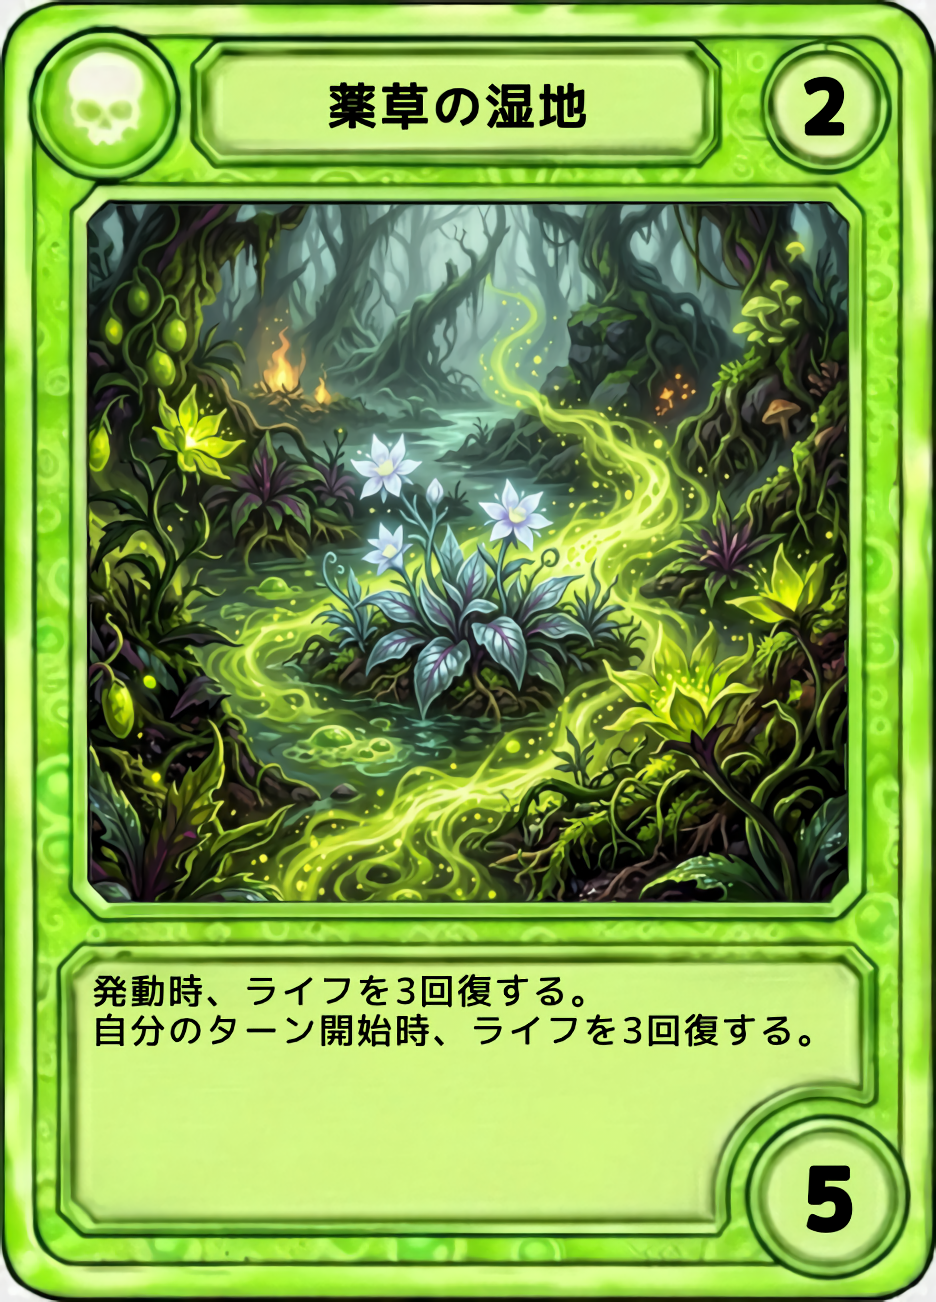
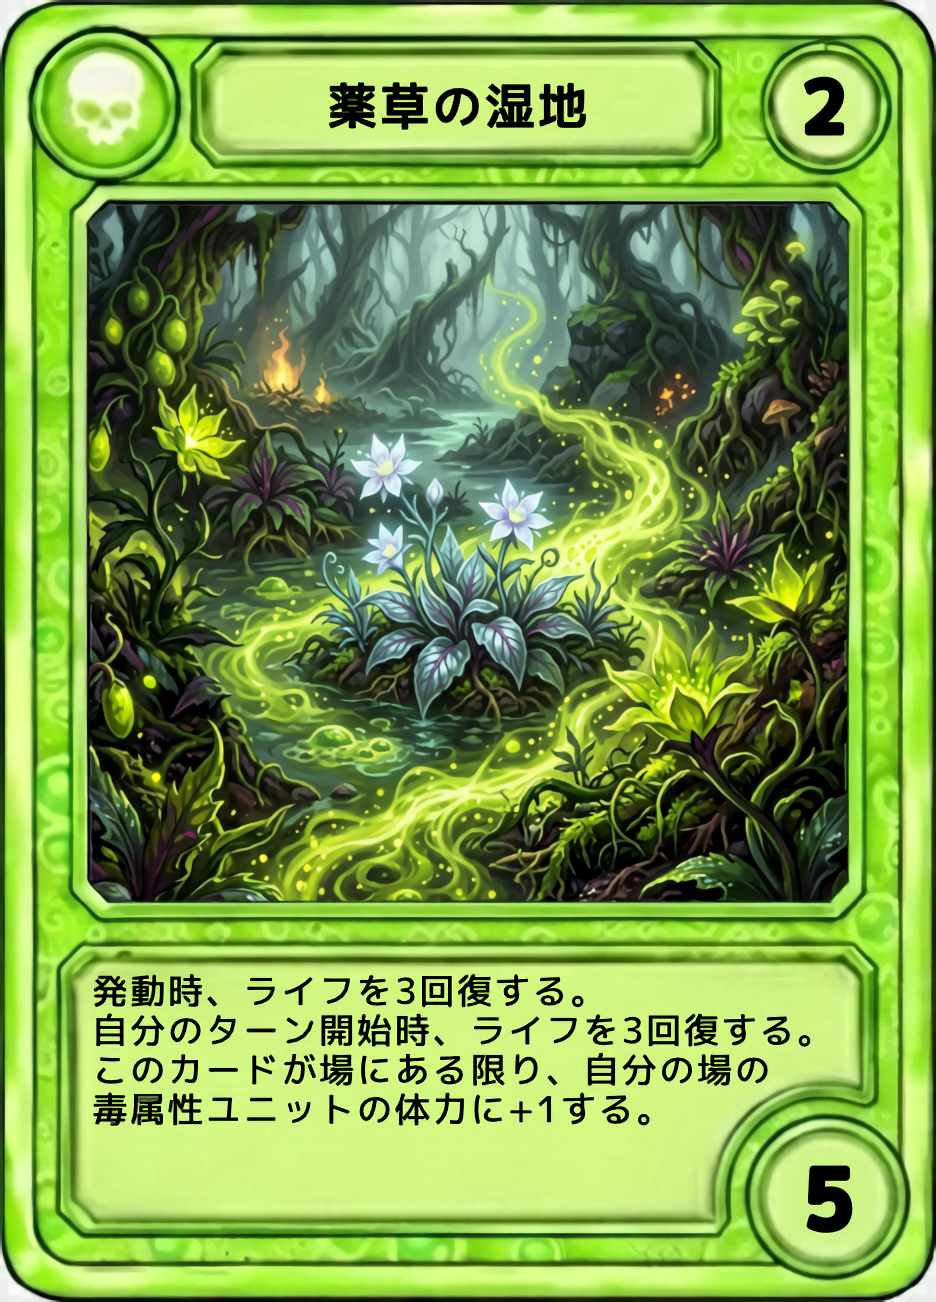
yakusou

Changed region(s): [[0.0929, 0.7988, 0.8365, 0.8909]]

diff --git a/server.js b/server.js
@@ -478,6 +478,11 @@ function applyFieldSpellOnSummon(unit, ownerPlayer){
   if(game.fieldSpell[ownerPlayer]&&cards[game.fieldSpell[ownerPlayer].name]?.effect==="PERM_SPELL_FOREST_BUFF"){
     unit.atk+=1; unit.hp+=1;
   }
+// 薬草の湿地：自分フィールドスペルがある場合HP+1
+  if(game.fieldSpell[ownerPlayer]&&cards[game.fieldSpell[ownerPlayer].name]?.effect==="PERM_SPELL_HERB_HEAL"){
+    unit.hp+=1;
+  }
+
   // 深海の神殿：自分フィールドスペルがある場合ATK+1
   if(game.fieldSpell[ownerPlayer]&&cards[game.fieldSpell[ownerPlayer].name]?.effect==="PERM_SPELL_WATER_ENERGY"){
     unit.atk+=1;
@@ -1164,10 +1169,12 @@ function processSpellEffect(cardName, p, socket){
         game.board[p].forEach(u=>{u.atk+=1;});
         addLog(p,`「${cardName}」：場の全ユニットATK+1`);
       }
-      // 薬草の湿地：発動時ライフ+3
+      // 薬草の湿地：発動時ライフ+3、場の全ユニットHP+1
       if(eff==="PERM_SPELL_HERB_HEAL"){
         game.life[p]+=3;
         addLog(p,`「${cardName}」：ライフ+3`);
+        game.board[p].forEach(u=>{u.hp+=1;});
+        addLog(p,`「${cardName}」：場の全ユニットHP+1`);
       }
       // 世界樹の聖域：即座に場のユニット全体ATK/HP+1
       if(eff==="PERM_SPELL_FOREST_BUFF"){
@@ -1333,10 +1340,21 @@ function destroyFieldSpell(ownerPlayer){
   const fs=game.fieldSpell[ownerPlayer];
   if(!fs) return;
   const eff=cards[fs.name]?.effect||"";
-  // 世界樹の聖域：場のユニットATK/HP-1
+  // 世界樹の聖域：場のユニットATK/HP-1（HP0以下で破壊）
   if(eff==="PERM_SPELL_FOREST_BUFF"){
-    game.board[ownerPlayer].forEach(u=>{u.atk=Math.max(0,u.atk-1);u.hp=Math.max(1,u.hp-1);});
+    game.board[ownerPlayer].forEach(u=>{u.atk=Math.max(0,u.atk-1);u.hp-=1;});
     addLog(ownerPlayer,`「${fs.name}」破壊：場の全ユニットATK/HP-1`);
+    const _dead=[];
+    game.board[ownerPlayer].forEach((u,i)=>{if(u.hp<=0)_dead.push(i);});
+    _dead.reverse().forEach(i=>{const d=game.board[ownerPlayer].splice(i,1)[0];if(!d.isToken)game.graves[ownerPlayer].push(d);triggerDestroyEffect(d,ownerPlayer);});
+  }
+// 薬草の湿地：場のユニットHP-1（HP0以下で破壊）
+  if(eff==="PERM_SPELL_HERB_HEAL"){
+    game.board[ownerPlayer].forEach(u=>{u.hp-=1;});
+    addLog(ownerPlayer,`「${fs.name}」破壊：場の全ユニットHP-1`);
+    const _dead=[];
+    game.board[ownerPlayer].forEach((u,i)=>{if(u.hp<=0)_dead.push(i);});
+    _dead.reverse().forEach(i=>{const d=game.board[ownerPlayer].splice(i,1)[0];if(!d.isToken)game.graves[ownerPlayer].push(d);triggerDestroyEffect(d,ownerPlayer);});
   }
   // 深海の神殿：場の全ユニットATK-1（元に戻す）
   if(eff==="PERM_SPELL_WATER_ENERGY"){
@@ -2881,6 +2899,7 @@ function roomSummonToken(room, p, tokenName, n){
 function roomApplyFieldSpellOnSummon(room, unit, ownerPlayer){
   const op=roomGetOpponent(room,ownerPlayer);
   if(room.fieldSpell[ownerPlayer]&&cards[room.fieldSpell[ownerPlayer].name]?.effect==="PERM_SPELL_FOREST_BUFF"){unit.atk+=1;unit.hp+=1;}
+if(room.fieldSpell[ownerPlayer]&&cards[room.fieldSpell[ownerPlayer].name]?.effect==="PERM_SPELL_HERB_HEAL"){unit.hp+=1;}
   if(room.fieldSpell[ownerPlayer]&&cards[room.fieldSpell[ownerPlayer].name]?.effect==="PERM_SPELL_WATER_ENERGY"){unit.atk+=1;}
   if(room.fieldSpell[ownerPlayer]&&cards[room.fieldSpell[ownerPlayer].name]?.effect==="PERM_SPELL_IRON_FACTORY"){
     if(unit.name==="ギアスカウト"||unit.name==="プロトタイプユニット") unit.atk+=1;
@@ -2892,7 +2911,8 @@ function roomDestroyFieldSpell(room, ownerPlayer){
   const fs=room.fieldSpell[ownerPlayer];
   if(!fs) return;
   const eff=cards[fs.name]?.effect||"";
-  if(eff==="PERM_SPELL_FOREST_BUFF"){room.board[ownerPlayer].forEach(u=>{u.atk=Math.max(0,u.atk-1);u.hp=Math.max(1,u.hp-1);});roomAddLog(room,ownerPlayer,`「${fs.name}」破壊：場の全ユニットATK/HP-1`);}
+  if(eff==="PERM_SPELL_FOREST_BUFF"){room.board[ownerPlayer].forEach(u=>{u.atk=Math.max(0,u.atk-1);u.hp-=1;});roomAddLog(room,ownerPlayer,`「${fs.name}」破壊：場の全ユニットATK/HP-1`);const _d=[];room.board[ownerPlayer].forEach((u,i)=>{if(u.hp<=0)_d.push(i);});_d.reverse().forEach(i=>{const dd=room.board[ownerPlayer].splice(i,1)[0];if(!dd.isToken)room.graves[ownerPlayer].push(dd);roomTriggerDestroyEffect(room,dd,ownerPlayer);});}
+  if(eff==="PERM_SPELL_HERB_HEAL"){room.board[ownerPlayer].forEach(u=>{u.hp-=1;});roomAddLog(room,ownerPlayer,`「${fs.name}」破壊：場の全ユニットHP-1`);const _d=[];room.board[ownerPlayer].forEach((u,i)=>{if(u.hp<=0)_d.push(i);});_d.reverse().forEach(i=>{const dd=room.board[ownerPlayer].splice(i,1)[0];if(!dd.isToken)room.graves[ownerPlayer].push(dd);roomTriggerDestroyEffect(room,dd,ownerPlayer);});}
   if(eff==="PERM_SPELL_WATER_ENERGY"){room.board[ownerPlayer].forEach(u=>{u.atk=Math.max(0,u.atk-1);});roomAddLog(room,ownerPlayer,`「${fs.name}」破壊：場の全ユニットATK-1`);}
   if(eff==="PERM_SPELL_IRON_FACTORY"){room.board[ownerPlayer].forEach(u=>{if(u.name==="ギアトークン"||u.name==="ギアスカウト"||u.name==="プロトタイプユニット"){u.atk=Math.max(0,u.atk-1);}});roomAddLog(room,ownerPlayer,`「${fs.name}」破壊：場のギアトークン等ATK-1`);}
   if(eff==="PERM_SPELL_DARK_DEBUFF"){const op=roomGetOpponent(room,ownerPlayer);room.board[op].forEach(u=>{u.atk+=1;});roomAddLog(room,ownerPlayer,`「${fs.name}」破壊：相手場ATK+1`);}
@@ -3063,7 +3083,7 @@ function roomProcessSpellEffect(room, cardName, p, socket){
       room.fieldSpell[p]={name:cardName,durability:dur};
       roomAddLog(room,p,`「${cardName}」をフィールドに設置（耐久${dur}）`);
       if(eff==="PERM_SPELL_WATER_ENERGY"){room.maxEnergy[p]=Math.min(10,room.maxEnergy[p]+1);room.energy[p]=Math.min(room.maxEnergy[p],room.energy[p]+1);roomAddLog(room,p,`「${cardName}」：エネルギー+1`);room.board[p].forEach(u=>{u.atk+=1;});roomAddLog(room,p,`「${cardName}」：場の全ユニットATK+1`);}
-      if(eff==="PERM_SPELL_HERB_HEAL"){room.life[p]+=3;roomAddLog(room,p,`「${cardName}」：ライフ+3`);}
+      if(eff==="PERM_SPELL_HERB_HEAL"){room.life[p]+=3;roomAddLog(room,p,`「${cardName}」：ライフ+3`);room.board[p].forEach(u=>{u.hp+=1;});roomAddLog(room,p,`「${cardName}」：場の全ユニットHP+1`);}
       if(eff==="PERM_SPELL_FOREST_BUFF"){room.board[p].forEach(u=>{u.atk+=1;u.hp+=1;});roomAddLog(room,p,`「${cardName}」：全ユニットATK/HP+1`);}
       if(eff==="PERM_SPELL_IRON_FACTORY"){room.board[p].forEach(u=>{if(u.name==="ギアトークン"||u.name==="ギアスカウト"||u.name==="プロトタイプユニット"){u.atk+=1;}});roomAddLog(room,p,`「${cardName}」：ギアトークン等ATK+1`);if(room.board[p].length<3){const gt={name:"ギギアトークン",atk:2,hp:2,attacked:false,attr:"steel",isToken:true};room.board[p].push(gt);roomApplyFieldSpellOnSummon(room,gt,p);roomAddLog(room,p,`「${cardName}」：ギギアトークン召喚`);}}
       if(eff==="PERM_SPELL_DARK_DEBUFF"){room.board[op].forEach(u=>{u.atk=Math.max(0,u.atk-1);});roomAddLog(room,p,`「${cardName}」：相手全ユニットATK-1`);}
@@ -3647,6 +3667,7 @@ function csApplyFSOnSummon(cs,unit,owner){
   if(cs.fieldSpell[owner]){
     const e=cards[cs.fieldSpell[owner].name]?.effect;
     if(e==="PERM_SPELL_FOREST_BUFF"){unit.atk+=1;unit.hp+=1;}
+    if(e==="PERM_SPELL_HERB_HEAL"){unit.hp+=1;}
     if(e==="PERM_SPELL_WATER_ENERGY"){unit.atk+=1;}
     if(e==="PERM_SPELL_IRON_FACTORY"){ if(unit.name==="ギアスカウト"||unit.name==="プロトタイプユニット")unit.atk+=1; }
   }
@@ -3665,7 +3686,8 @@ function csSummonToken(cs,p,tokenName,n){
 function csDestroyFS(cs,owner){
   const fs=cs.fieldSpell[owner]; if(!fs)return;
   const e=cards[fs.name]?.effect||""; const op=csOpp(cs,owner);
-  if(e==="PERM_SPELL_FOREST_BUFF")cs.board[owner].forEach(u=>{u.atk=Math.max(0,u.atk-1);u.hp=Math.max(1,u.hp-1);});
+  if(e==="PERM_SPELL_FOREST_BUFF"){cs.board[owner].forEach(u=>{u.atk=Math.max(0,u.atk-1);u.hp-=1;});const _d=[];cs.board[owner].forEach((u,i)=>{if(u.hp<=0)_d.push(i);});_d.reverse().forEach(i=>{const dd=cs.board[owner].splice(i,1)[0];if(!dd.isToken)cs.graves[owner].push(dd);csTriggerDestroy(cs,dd,owner);});}
+  if(e==="PERM_SPELL_HERB_HEAL"){cs.board[owner].forEach(u=>{u.hp-=1;});const _d=[];cs.board[owner].forEach((u,i)=>{if(u.hp<=0)_d.push(i);});_d.reverse().forEach(i=>{const dd=cs.board[owner].splice(i,1)[0];if(!dd.isToken)cs.graves[owner].push(dd);csTriggerDestroy(cs,dd,owner);});}
   if(e==="PERM_SPELL_WATER_ENERGY")cs.board[owner].forEach(u=>{u.atk=Math.max(0,u.atk-1);});
   if(e==="PERM_SPELL_IRON_FACTORY")cs.board[owner].forEach(u=>{if(u.name==="ギアトークン"||u.name==="ギアスカウト"||u.name==="プロトタイプユニット")u.atk=Math.max(0,u.atk-1);});
   if(e==="PERM_SPELL_DARK_DEBUFF")cs.board[op].forEach(u=>{u.atk+=1;});
@@ -3878,7 +3900,7 @@ function csSpell(cs,cardName,p){
       cs.fieldSpell[p]={name:cardName,durability:dur};
       csLog(cs,p,`「${cardName}」をフィールドに設置（耐久${dur}）`);
       if(eff==="PERM_SPELL_WATER_ENERGY"){cs.maxEnergy[p]=Math.min(10,cs.maxEnergy[p]+1);cs.energy[p]=Math.min(cs.maxEnergy[p],cs.energy[p]+1);cs.board[p].forEach(u=>u.atk+=1);csLog(cs,p,`「${cardName}」：エネルギー+1、場の全ユニットATK+1`);}
-      if(eff==="PERM_SPELL_HERB_HEAL"){cs.life[p]+=3;csLog(cs,p,`「${cardName}」：ライフ+3`);}
+      if(eff==="PERM_SPELL_HERB_HEAL"){cs.life[p]+=3;csLog(cs,p,`「${cardName}」：ライフ+3`);cs.board[p].forEach(u=>{u.hp+=1;});csLog(cs,p,`「${cardName}」：場の全ユニットHP+1`);}
       if(eff==="PERM_SPELL_FOREST_BUFF"){cs.board[p].forEach(u=>{u.atk+=1;u.hp+=1;});csLog(cs,p,`「${cardName}」：場の全ユニットATK/HP+1`);}
       if(eff==="PERM_SPELL_IRON_FACTORY"){cs.board[p].forEach(u=>{if(u.name==="ギアトークン"||u.name==="ギアスカウト"||u.name==="プロトタイプユニット")u.atk+=1;});if(cs.board[p].length<3){const gt={name:"ギギアトークン",atk:2,hp:2,attacked:false,attr:"steel",isToken:true};cs.board[p].push(gt);csApplyFSOnSummon(cs,gt,p);}csLog(cs,p,`「${cardName}」：ギアトークン強化＋ギギアトークン召喚`);}
       if(eff==="PERM_SPELL_DARK_DEBUFF"){cs.board[op].forEach(u=>{u.atk=Math.max(0,u.atk-1);});csLog(cs,p,`「${cardName}」：相手全ユニットATK-1`);}
